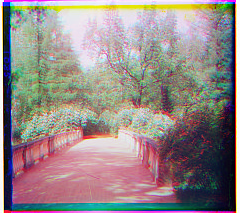
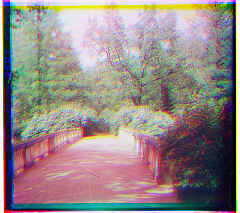
DONE

diff --git a/pract2/lab2_araSi.py b/pract2/lab2_araSi.py
@@ -1,4 +1,5 @@
 import os
+import time
 import cv2
 import numpy as np
 from matplotlib import pyplot as plt
@@ -21,6 +22,7 @@ def getFFTconv(reference, image):
     conv = signal.fftconvolve(referenceMean, imageMean[::-1,::-1], mode='same')
     center = np.unravel_index(np.argmax(conv), conv.shape)
     diff = [center[0] - centerRef[0], center[1] - centerRef[1]]
+    
     new = np.roll(image,diff[0],axis=0)
     new = np.roll(new,diff[1],axis=1)
     return new
@@ -37,25 +39,7 @@ def getCrossCorr(reference, image):
     
     new = np.roll(image,x-xRef,axis=1)
     new = np.roll(new,y-yRef,axis=0)
-    
-    # fig, (ax_orig, ax_template, ax_corr, ax_result) = plt.subplots(4, 1, figsize=(6, 15))
-    # ax_orig.imshow(reference, cmap='gray')
-    # ax_orig.set_title('Original')
-    # ax_orig.set_axis_off()
-    # ax_template.imshow(image, cmap='gray')
-    # ax_template.set_title('Template') 
-    # ax_template.set_axis_off() 
-    # ax_corr.imshow(corr, cmap='gray') 
-    # ax_corr.set_title('Cross-correlation') 
-    # ax_corr.set_axis_off() 
-    # ax_orig.plot(x, y, 'ro')
-    # ax_orig.plot(xRef, yRef, 'ro') 
-    # ax_result.imshow(new, cmap='gray')
-    # ax_result.set_title('result') 
-    # ax_result.set_axis_off() 
-    
-    # fig.show()
-    
+
     return new
 
 def getCorr(reference, image):
@@ -73,9 +57,10 @@ def getCorr(reference, image):
     
     return new
 
-def alignImages(ref, im2, im3, alignType):
+def alignImages(ref, im2, im3, alignType, name):
     shape = ref.shape
     result = np.zeros((shape[0],shape[1],3))
+    t=time.time()
     if alignType == 0:
         result[:,:,0] = ref
         result[:,:,1] = getFFTconv(ref, im2)
@@ -88,42 +73,63 @@ def alignImages(ref, im2, im3, alignType):
         result[:,:,0] = ref
         result[:,:,1] = getCorr(ref, im2)
         result[:,:,2] = getCorr(ref, im3)
-        
+    elapsed=time.time()-t
+    print(name + ': Elapsed time is '+str(elapsed)+' seconds')
     
     return result
 
-def saveImg(img, name):
-    n = os.path.splitext(name)[0] + "_color.png"
+def saveImg(img, name, extension):
+    n = os.path.splitext(name)[0] + "_color" + extension
     cv2.imwrite(n, img)
     return 0
 
 # ----------------------------------------------------------------------------
 
 
-name = 'img/test1.jpg'
-test1 = cv2.imread(name, cv2.IMREAD_GRAYSCALE)
+path = "img/"
+imageSet = "p"
+numberImgs = 4
+extension = ".jpg"
+alignType = 0
 
+for i in range(1,numberImgs+1):
+    name = path + imageSet + str(i) + extension
+    img =  cv2.imread(name, cv2.IMREAD_GRAYSCALE)
+    r, g, b = cut(img)
+    result = alignImages(r,g,b,alignType, name)
+    saveImg(result, path + imageSet + str(i), extension)
+    # result.append(alignImages(r,g,b,alignType))
+    
 # plt.figure(1)
-# plt.imshow(test1,'gray')
+# plt.imshow(result[0].astype(np.uint8),'gray')
 
-test1_R, test1_G, test1_B = cut(test1)
-test1_R = test1_R.astype(np.double)
-test1_G = test1_G.astype(np.double)
-test1_B = test1_B.astype(np.double)
 
-# plt.figure(2)
-# plt.imshow(test1_R,'gray')
-# plt.figure(3)
-# plt.imshow(test1_G,'gray')
-# plt.figure(4)
-# plt.imshow(test1_B,'gray')
 
-result_test1 = alignImages(test1_R, test1_G, test1_B, 2)
 
-plt.figure(10)
-plt.imshow(result_test1.astype(np.uint8))
 
-saveImg(result_test1, name)
+# name = 'img/test1.jpg'
+# test1 = cv2.imread(name, cv2.IMREAD_GRAYSCALE)
+
+
+
+# test1_R, test1_G, test1_B = cut(test1)
+# test1_R = test1_R.astype(np.double)
+# test1_G = test1_G.astype(np.double)
+# test1_B = test1_B.astype(np.double)
+
+# # plt.figure(2)
+# # plt.imshow(test1_R,'gray')
+# # plt.figure(3)
+# # plt.imshow(test1_G,'gray')
+# # plt.figure(4)
+# # plt.imshow(test1_B,'gray')
+
+# result_test1 = alignImages(test1_R, test1_G, test1_B, 0)
+
+# plt.figure(10)
+# plt.imshow(result_test1.astype(np.uint8))
+
+# saveImg(result_test1, name)
 
 
 
